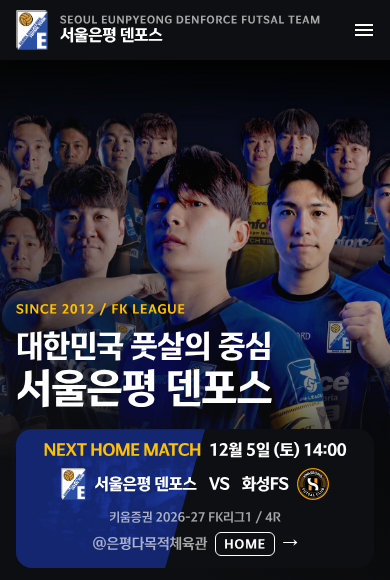
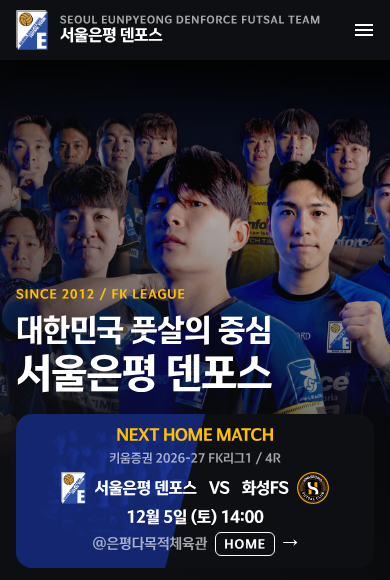
휴대폰 다음 홈경기 띠 순서 바꿈: 라벨 / 대회 / 대진 / 날짜 / 장소 5줄, 줄 사이 4, 안 쓰이는 휴대폰 카드 규칙 정리 (D-089, I-063)
Claude-Session: https://claude.ai/code/session_015na33bHmUEDGFhNLp3LnQp

Changed region(s): [[0.0308, 0.4966, 0.8923, 0.931]]

diff --git a/sites/eunpyeong-denforce/src/components/home/NextMatchHero.module.css b/sites/eunpyeong-denforce/src/components/home/NextMatchHero.module.css
@@ -171,86 +171,11 @@
   min-height: 44px;
 }
 
-@media (max-width: 720px) {
-  .card {
-    --nmh-pad: var(--space-m);
-    --nmh-col: 135px;
-    --nmh-vs: 40px;
-    --nmh-crest: 72px;
-    --nmh-split-top: 10px;
-    --nmh-split-bottom: 30px;
-    gap: var(--space-s);
-    padding: var(--nmh-pad);
-    /* 391~720 넓은 휴대폰(412 / 430 등): 카드는 358 그대로 가운데 (D-087). 390 이하는 꽉 차서 그대로 */
-    margin-inline: auto;
-  }
-
-  .team {
-    gap: var(--space-s);
-  }
-
-  /* 휴대폰은 A 이전 순서 그대로: 라벨 → 대진 → 대회 → 날짜 → @장소 + HOME → 버튼 */
-  .meta {
-    display: contents;
-  }
-
-  .meta > :first-child {
-    order: 2;
-  }
-
-  .date {
-    order: 3;
-  }
-
-  .venue {
-    order: 4;
-  }
-
-  .buttons {
-    order: 5;
-  }
-
-  .label {
-    font-size: 16px;
-  }
-
-  .teamName {
-    font-size: 20px;
-  }
-
-  .vs {
-    font-size: 28px;
-  }
-
-  .date {
-    font-size: 22px;
-  }
-
-  .button {
-    flex: 1;
-    width: auto;
-  }
-}
-
-/* 390 미만 좁은 휴대폰(375 SE/mini 포함): 팀 이름 kfa/m/h4 16, 엠블럼 칸 64 — 첫 화면 580 안 (디자인 d162b69, 768831c).
-   320 은 두 줄이 될 수 있고 첫 화면을 조금 넘는 것을 받아들인다 */
-@media (max-width: 389px) {
-  .card {
-    --nmh-crest: 64px;
-  }
-
-  .team > span:first-child {
-    --crest: 64px;
-  }
-
-  .teamName {
-    font-size: 16px;
-  }
-}
-
-/* ── 휴대폰 작은 띠 A 가운데 3줄 (D-088, 피그마 274:26795) ──────────────
-   721 이상은 위 카드(.wide), 720 이하는 띠(.strip). 폭 화면 - 32(히어로 안쪽 그대로), 높이(KFA고딕 실측) 320 168 / 360 162 / 375~430 139 / 480~720 116 / 390 긴 이름 145.
-   안쪽 여백 위아래 space/s 좌우 space/m, 줄 사이 space/xs, 줄 안 줄바꿈 사이 space/2xs. 파랑 반쪽 +10 / -30 + (다) 질감 그대로 */
+/* ── 휴대폰 작은 띠 A, 순서 바꿈 5줄 (D-089, 피그마 279:27004 / 279:27049 / 279:27094 / 279:27139) ──────────────
+   721 이상은 위 카드(.wide), 720 이하는 띠(.strip) — 휴대폰용 .card 규칙(예전 큰 카드)은 쓰이지 않아 지움(I-063).
+   ① NEXT HOME MATCH ② 대회/라운드 ③ 대진 ④ 날짜/시간 ⑤ @장소 + HOME + →. 줄 안 줄바꿈 없음(긴 상대 이름만 2줄).
+   폭 화면 - 32, 안쪽 여백 위아래 space/s 좌우 space/m, 줄 사이 space/2xs. 파랑 반쪽 +10 / -30 + (다) 질감 그대로.
+   높이(KFA고딕) 약 154, 390 긴 이름 160 */
 .stripWrap {
   display: none;
 }
@@ -269,20 +194,15 @@
     --nmh-split-top: 10px;
     --nmh-split-bottom: 30px;
     width: 100%;
-    gap: var(--space-xs);
+    gap: var(--space-2xs);
     padding: var(--space-s) var(--space-m);
     margin-inline: 0;
     text-decoration: none;
   }
 
-  /* 줄 1(라벨 + 날짜), 줄 3(대회 + 장소 덩어리) — 좁으면 덩어리째 다음 줄로, 사이 space/2xs (I-062, 디자인 f46f3d6) */
-  .stripRow {
-    position: relative;
-    display: flex;
-    flex-wrap: wrap;
-    align-items: center;
-    justify-content: center;
-    gap: var(--space-2xs) var(--space-xs);
+  /* NEXT HOME MATCH — kfa/m/h4 16 Bold yellow (넓은 카드는 20) */
+  .strip .label {
+    font-size: 16px;
   }
 
   /* [엠블럼 32 + 이름] VS [이름 + 엠블럼 32] — 엠블럼과 이름 space/xs, 이름과 VS space/s */

diff --git a/sites/eunpyeong-denforce/src/components/home/NextMatchHero.tsx b/sites/eunpyeong-denforce/src/components/home/NextMatchHero.tsx
@@ -82,8 +82,8 @@ function WideCard({ match, ourName, textured, style }: Props) {
 }
 
 /**
- * 휴대폰 작은 띠 A 가운데 3줄 (D-088, 피그마 274:26717 / 274:26795 / 274:26873 / 274:26951) — 폭 화면 - 32.
- * [NEXT HOME MATCH + 날짜] / [엠블럼 32 + 우리 이름, VS, 상대 이름 + 엠블럼] / [대회 + (@장소 + HOME + →)] — 줄 규칙은 KFA고딕 실측 기준(I-062, 디자인 f46f3d6).
+ * 휴대폰 작은 띠 A 순서 바꿈 5줄 (D-088 → D-089, 피그마 279:27004 / 279:27049 / 279:27094 / 279:27139) — 폭 화면 - 32.
+ * NEXT HOME MATCH / 대회, 라운드 / [엠블럼 32 + 우리 이름, VS, 상대 이름 + 엠블럼] / 날짜, 시간 / @장소 + HOME + →.
  * 카드 전체가 /match/schedule 링크 하나. 링크 이름은 보이는 글자 그대로 + '경기일정 보기'(→ 는 숨김), 라벨은 2단계 제목.
  */
 function PhoneStrip({ match, ourName, textured, style }: Props) {
@@ -93,14 +93,10 @@ function PhoneStrip({ match, ourName, textured, style }: Props) {
   return (
     <section className={styles.stripWrap} data-surface="dark" aria-labelledby="next-home-match-strip">
       <Link href="/match/schedule" className={`${styles.card} ${styles.strip} ${textured ? styles.textured : ""}`} style={style}>
-        <span className={styles.stripRow}>
-          <span id="next-home-match-strip" role="heading" aria-level={2} className={styles.label}>
-            NEXT HOME MATCH
-          </span>
-          <span className={styles.stripDate}>
-            {date} {time}
-          </span>
+        <span id="next-home-match-strip" role="heading" aria-level={2} className={styles.label}>
+          NEXT HOME MATCH
         </span>
+        <CompetitionTag text={matchLabel(match)} surface="dark" />
         <span className={styles.stripTeams}>
           <span className={styles.stripTeam}>
             <TeamCrest team={home} us={match.isHome} size={32} />
@@ -112,17 +108,17 @@ function PhoneStrip({ match, ourName, textured, style }: Props) {
             <TeamCrest team={away} us={!match.isHome} size={32} />
           </span>
         </span>
-        <span className={styles.stripRow}>
-          <CompetitionTag text={matchLabel(match)} surface="dark" />
-          <span className={styles.venue}>
-            {match.venue && <>@{match.venue}</>}
-            <HomeAwayBadge isHome={match.isHome} surface="dark" />
-            <span className={styles.arrow} aria-hidden="true">
-              →
-            </span>
-            {/* 카드 바로 아래 자식은 .card > * 가 position: relative 로 바꿔 자리를 차지하므로, 숨김 글자는 줄 안에 둔다 */}
-            <span className="sr-only">, 경기일정 보기</span>
+        <span className={styles.stripDate}>
+          {date} {time}
+        </span>
+        <span className={styles.venue}>
+          {match.venue && <>@{match.venue}</>}
+          <HomeAwayBadge isHome={match.isHome} surface="dark" />
+          <span className={styles.arrow} aria-hidden="true">
+            →
           </span>
+          {/* 카드 바로 아래 자식은 .card > * 가 position: relative 로 바꿔 자리를 차지하므로, 숨김 글자는 줄 안에 둔다 */}
+          <span className="sr-only">, 경기일정 보기</span>
         </span>
       </Link>
     </section>

diff --git a/sites/eunpyeong-denforce/docs/DECISION_LOG.md b/sites/eunpyeong-denforce/docs/DECISION_LOG.md
@@ -29,6 +29,12 @@
 
 <!-- 여기서부터 최신 항목을 위에 추가 -->
 
+## D-089 | 2026-11-14 | 휴대폰 다음 홈경기 띠 A 순서 바꿈: 5줄(라벨 / 대회 / 대진 / 날짜 / 장소), 줄 사이 4
+- **상태**: 채택, 기능 브랜치(배포는 총괄) (소유자 "순서 바꿈으로 ㄱㄱ", 디자인 섹션 274:26714 다섯째 줄 279:27002, 프레임 360 279:27004 / 390 279:27049 / 430 279:27094 / 390 긴 이름 279:27139)
+- **결정**: D-088 띠의 줄을 ① NEXT HOME MATCH ② 대회/라운드(CompetitionTag) ③ 대진 ④ 날짜/시간(16 Bold) ⑤ @장소 + HOME + → 로. 모든 폭 같은 구조, 줄 안 줄바꿈 없음(긴 상대 이름만 2줄). 줄 사이 space/xs → space/2xs. 안쪽 여백, 폭, 파랑 반쪽, 질감, 카드 위치(히어로 아래 12), 문구 내림(카드 위 16) 그대로. 운영 검토 반영(d35b1f5: 링크 이름 = 보이는 글자 + 숨김 ', 경기일정 보기', 라벨 role heading 2, 이름 overflow-wrap anywhere, 장소 덩어리 줄바꿈 허용) 유지.
+- **정리(I-063)**: 띠 라벨 16 을 .strip .label 로 옮기고, 720 이하에서 안 쓰이던 휴대폰 .card 묶음(.team / .meta / .date / .buttons / .teamName / .vs / .button)과 389 이하 묶음 삭제. 721 / 768 / 1280 카드 456x368, 문구 위치 그대로 확인.
+- **실측**(KFA고딕, 머리 60 포함): 카드 높이 / 문구 위 끝 — 360 / 375 / 390 / 412 / 430 / 600 / 720 모두 154 / 287, 390 긴 이름(고양불스 풋살클럽) 160 / 281, 320 160 / 281(우리 이름 2줄). 판타지아부천FS, 시흥풋볼아이, 긴 장소 넣어도 넘침 0. Tab 4번째, 초점 2px, Enter → /match/schedule.
+
 ## D-088 | 2026-11-14 | 휴대폰 다음 홈경기 = 작은 띠 A 가운데 3줄, 카드 전체가 경기일정 링크, 버튼 없음
 - **상태**: 채택, 기능 브랜치(배포는 총괄) (소유자 "카드가 차지하는 면적이 너무 커서", 띠 A 선택 — 총괄 창에서 승인. 디자인 f945746, 섹션 274:26714, 프레임 360 274:26717 / 390 274:26795 / 430 274:26873 / 390 긴 이름 274:26951)
 - **결정**: 720 이하만. 721 이상(태블릿 456, PC)은 지금 카드와 버튼 그대로. 휴대폰은 PhoneStrip — 폭 화면 - 32, 안쪽 위아래 space/s 좌우 space/m, 줄 사이 space/xs. [NEXT HOME MATCH 16 Bold yellow + 날짜 16 Bold] / [엠블럼 32 + 우리 이름 16 Bold, VS, 상대 이름 + 엠블럼 32] / [대회 태그 + (@장소 + HOME + →) 한 덩어리] (줄 규칙은 KFA고딕 실측 기준, 디자인 f46f3d6 — 처음 시안 순서는 390 에서 24 높아 바꿈, I-062). 줄 1, 줄 3은 좁으면 덩어리째 다음 줄(사이 space/2xs). 파랑 반쪽 +10 / -30 + (다) 질감 그대로. 카드 전체가 /match/schedule 링크 하나, 링크 이름은 '다음 홈경기 우리 대 상대, 날짜 시각, 장소 홈, 경기일정 보기', → 는 낭독 숨김. '오시는 길' / '경기일정' 버튼은 휴대폰에서 뺌(소유자 승인). D-087 의 휴대폰 margin-inline auto 는 띠로 대체.

diff --git a/sites/eunpyeong-denforce/docs/FIGMA_SYNC.md b/sites/eunpyeong-denforce/docs/FIGMA_SYNC.md
@@ -583,3 +583,4 @@
 - 2026-11-14 기능: D-088 휴대폰 히어로 문구 내림(디자인 be56ee2) — 문구가 띠 카드 위 16, 문구 위 끝 360 279 / 390 279 / 430 325 / 긴 이름 273(390 은 I-062 만큼 위). 721 이상 그대로. 캡처 phone-strip/code-lowered-360/390/430.png.
 - 2026-11-14 기능: I-062 줄 규칙(디자인 f46f3d6) — 줄1 라벨 + 날짜, 줄3 대회 + 장소 덩어리. 실측 카드/문구 위 360 162/279, 390 139/302, 412 139/302, 430 139/302, 긴 이름 145/296. 캡처 phone-strip/code-*.png, code-lowered-*.png 다시 찍음.
 - 2026-11-14 총괄: D-088 휴대폰 띠 A + 문구 내림 + I-062 줄 규칙 + 배포 전 검토 4건(d35b1f5) 운영 배포 dpl_BqHBccJ2JxkqLFvN1ZtXaoqq9cTA. 운영 확인: 검증 빌드와 86폭(320~720 5 간격 + 721/768/1024/1280/1920) 위치·크기 같음, 카드 360 162 / 390 139 / 430 139, 문구 위 279 / 302 / 302, 긴 이름·긴 장소 넣어도 넘침 0, 링크 이름 = 보이는 글자 + 경기일정 보기, 'NEXT HOME MATCH' 2단계 제목, 홈 6폭 콘솔 오류·/_next/image 0. 다음: 소유자 제안 줄 순서 바꿈 시안(279:27002) 선택 대기.
+- 2026-11-14 기능: 띠 A 순서 바꿈(D-089, 279:27004 / 279:27049 / 279:27094 / 279:27139) — 5줄, 줄 사이 4, I-063 정리. 실측 카드 154 / 문구 위 287(360~720), 긴 이름 160 / 281. 721 이상 그대로. 캡처 phone-strip/code-*.png, code-lowered-*.png 다시 찍음.

diff --git a/sites/eunpyeong-denforce/docs/KNOWN_ISSUES.md b/sites/eunpyeong-denforce/docs/KNOWN_ISSUES.md
@@ -28,7 +28,7 @@
 <!-- 최신 항목을 위에 추가. 심각도 '높음'은 발견 즉시 소유자에게 별도 보고 -->
 
 ## I-063 | 2026-11-14 | NextMatchHero.module.css 휴대폰 .card 묶음 대부분이 띠 A 뒤 쓰이지 않는데, 띠 라벨 16 이 그 안의 .label 한 줄에 기대고 있다
-- **상태**: 열림 (범위 밖 정리 — 기록만)
+- **상태**: 해결(2026-11-14, D-089 — 라벨 16 을 .strip .label 로, 안 쓰이는 휴대폰 .card 묶음과 389 이하 묶음 삭제)
 - **심각도**: 낮음
 - **증상/내용**: 720 이하에서 .wide 가 display none 이라 휴대폰 .card 묶음의 .team / .meta / .date / .buttons / .teamName / .vs / .button 과 389 이하 묶음은 화면에 영향이 없다. 그런데 띠의 'NEXT HOME MATCH' 16 은 같은 묶음의 `.label { font-size: 16px }` 으로 정해진다. 묶음을 통째로 지우면 띠 라벨 크기가 바뀐다.
 - **해결 방향**: 다음에 띠를 손볼 때(줄 순서 바꿈 시안 등) .strip .label 로 옮기고 남은 휴대폰 .card 규칙을 지운다.
